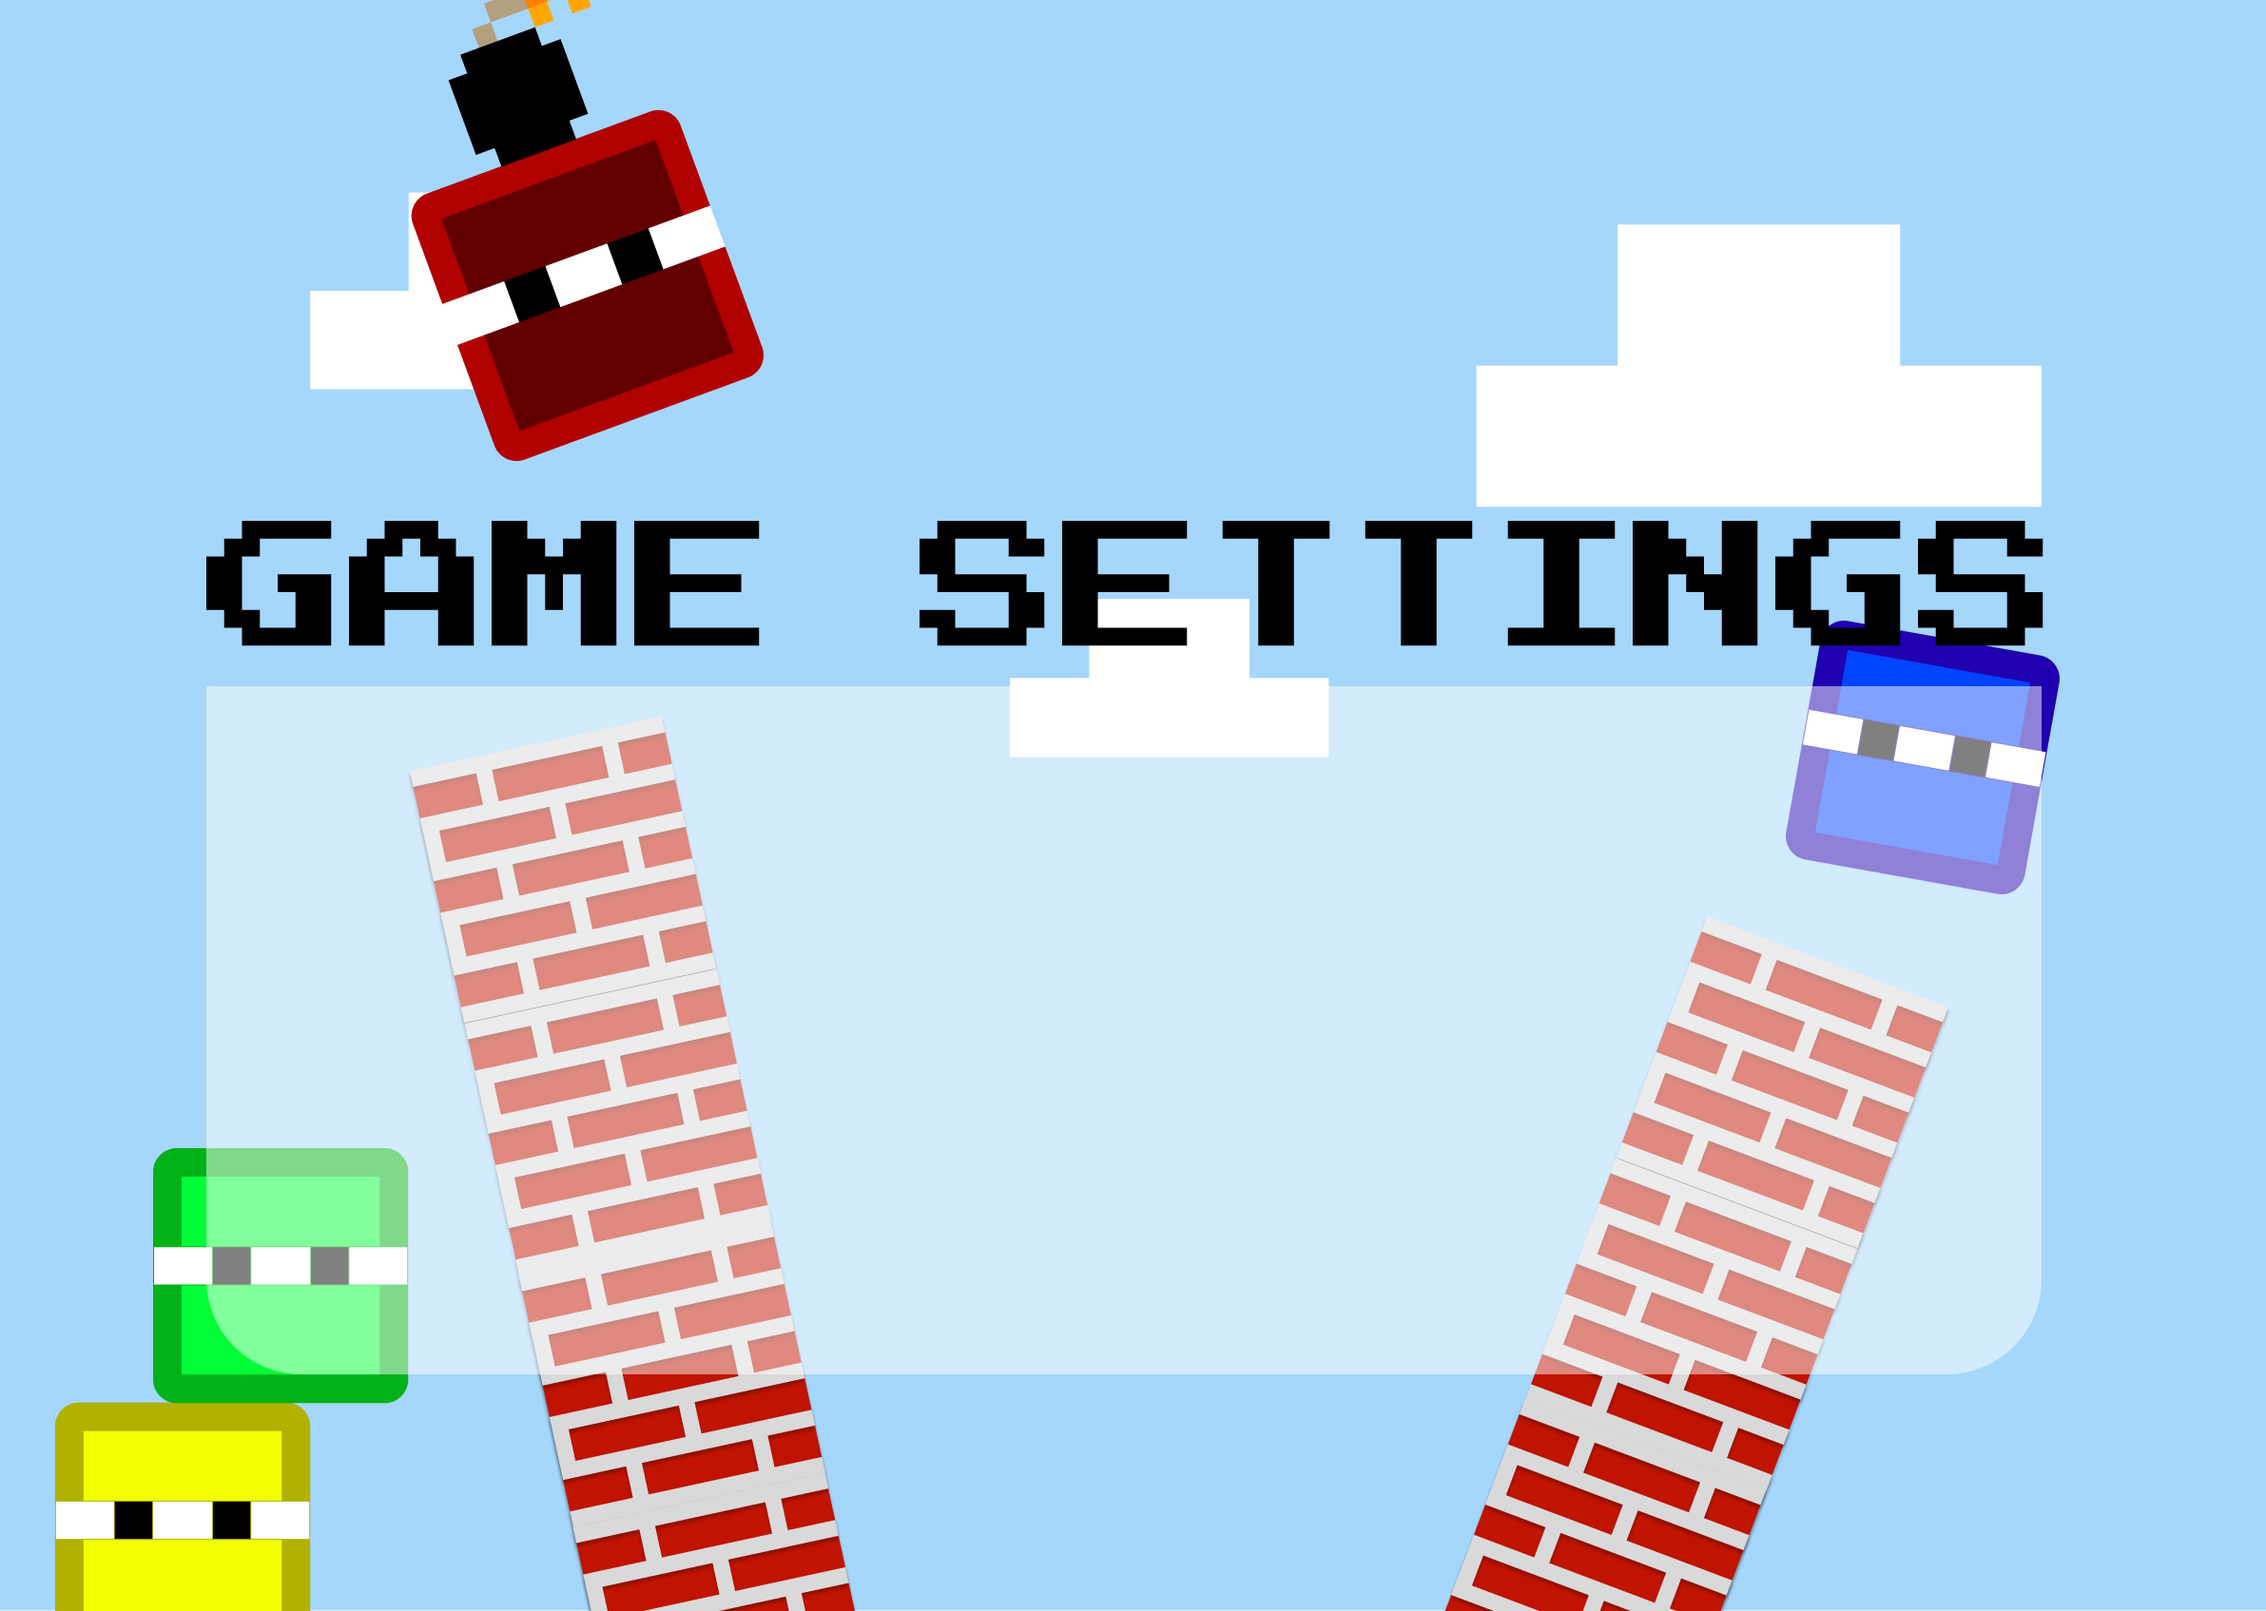
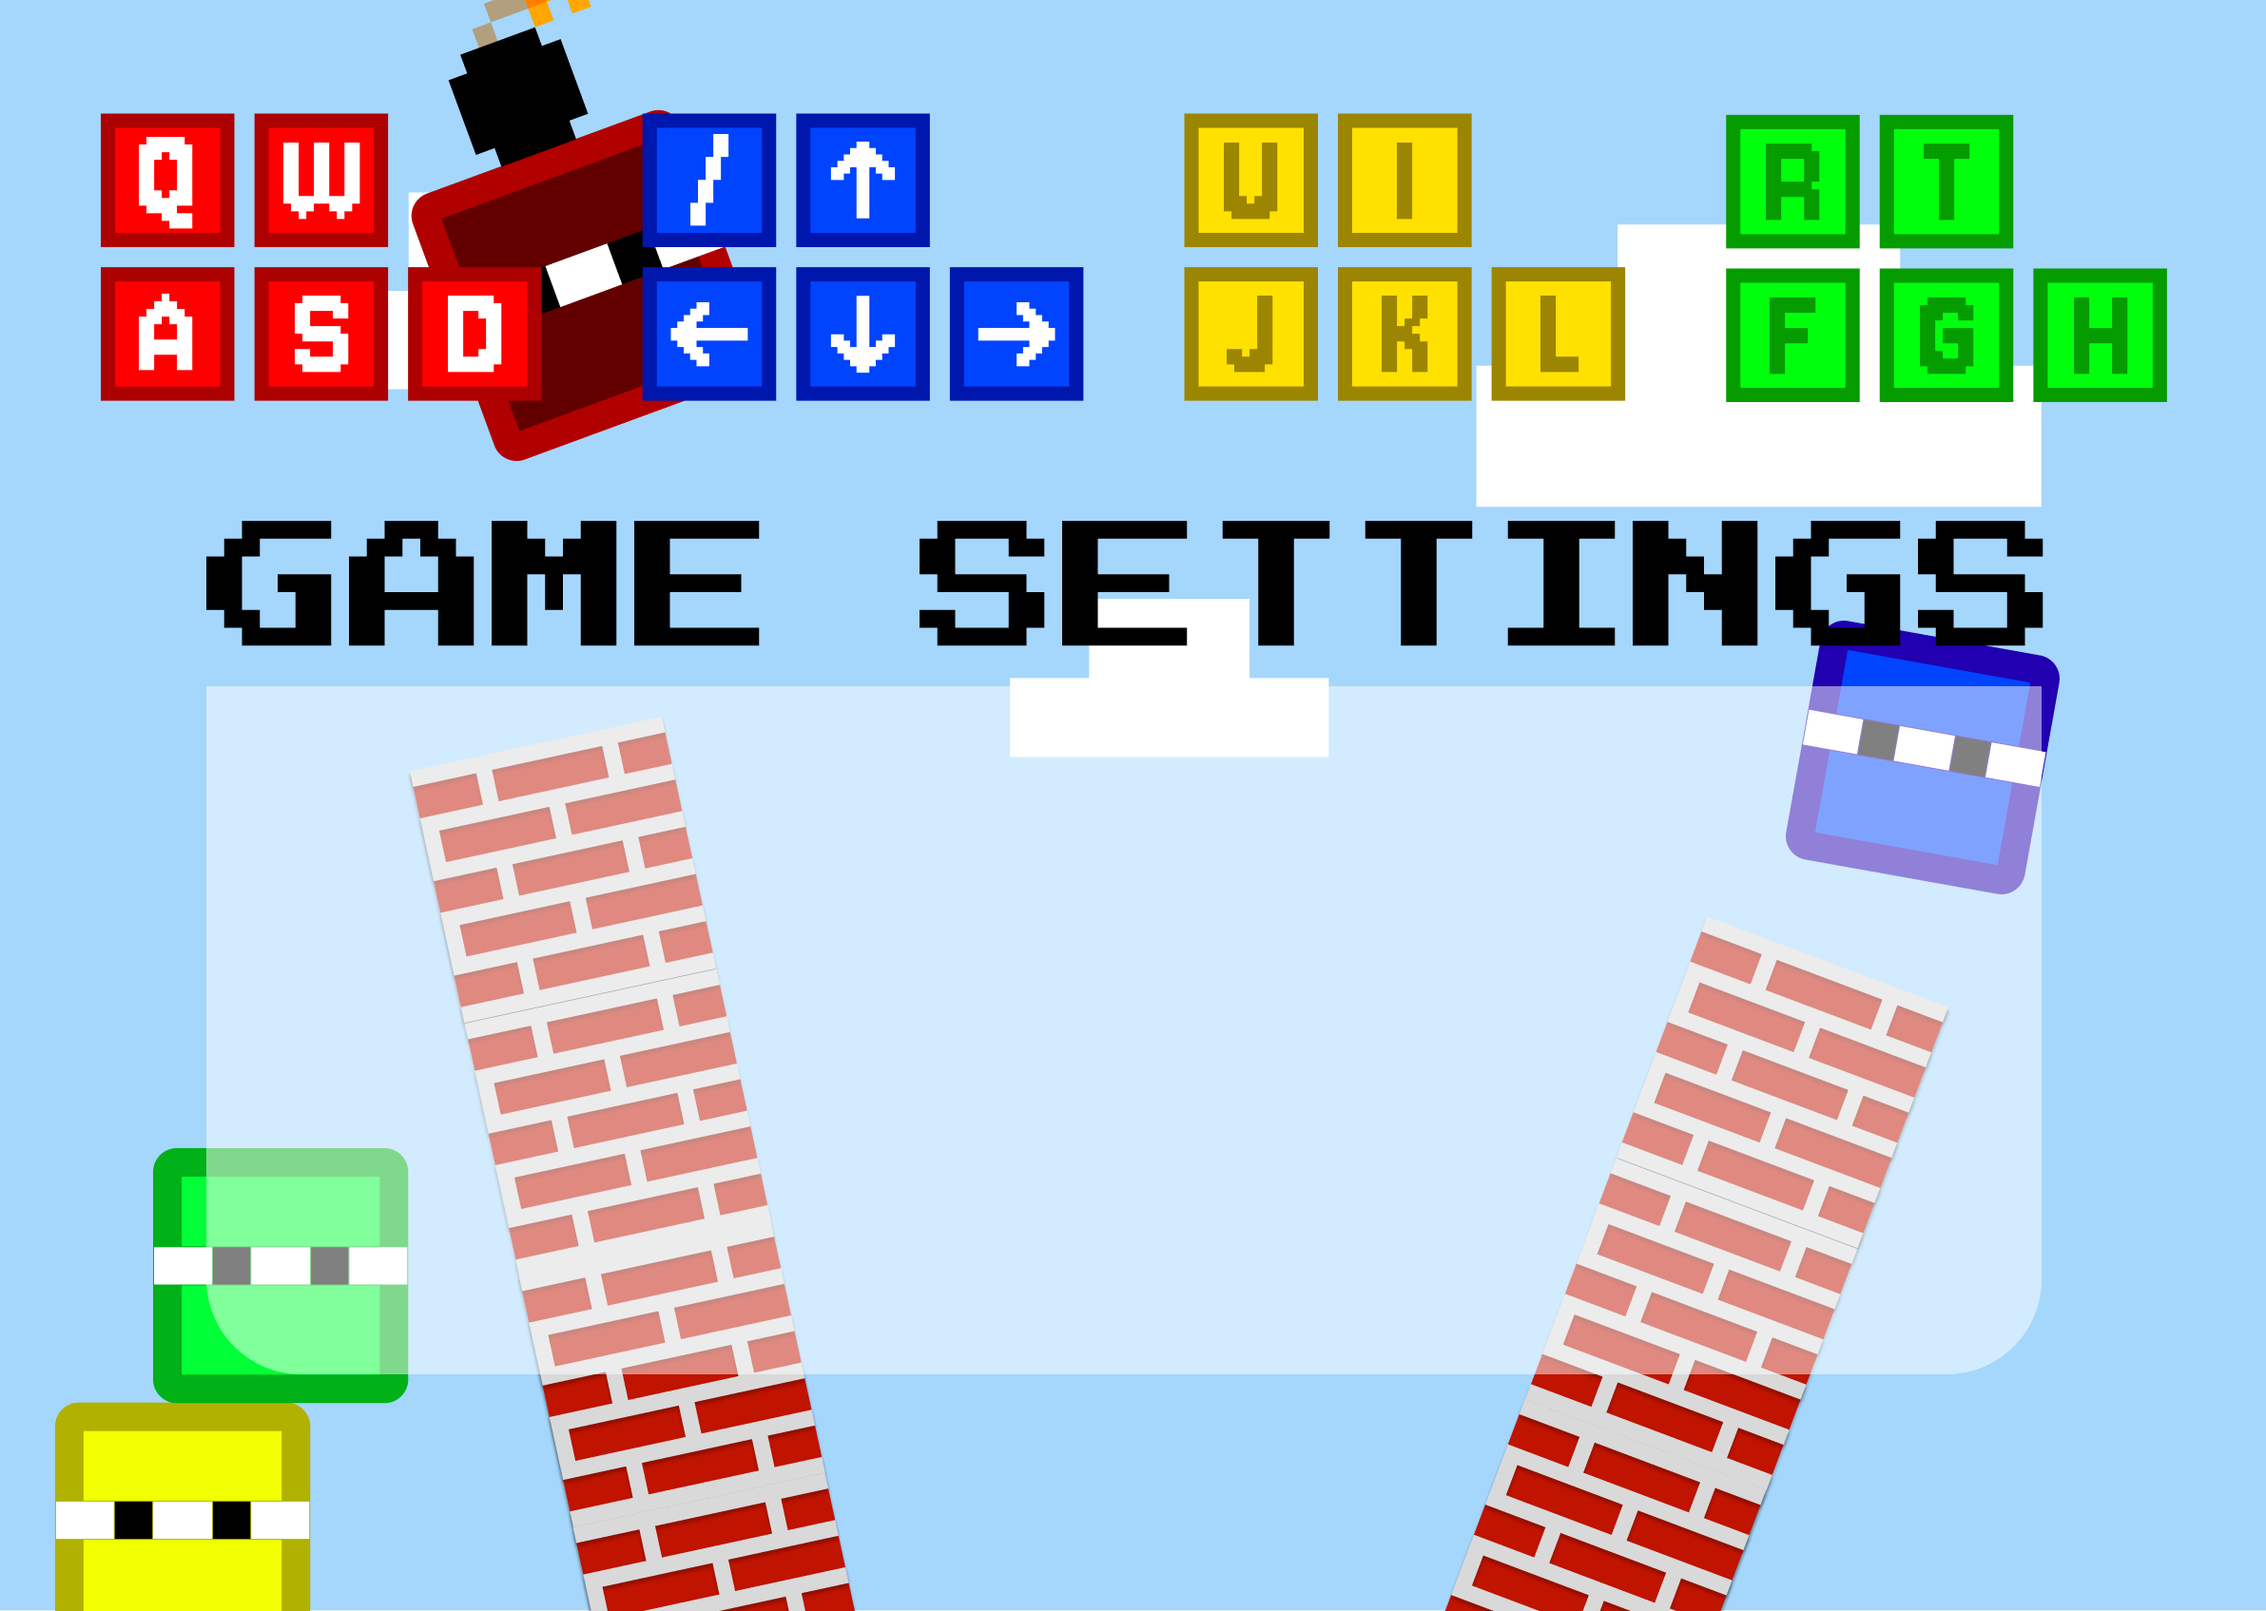
fix player 3 key, display keys

Changed region(s): [[0.2795, 0.0614, 0.9627, 0.2761], [0.0311, 0.0614, 0.2484, 0.2761]]

diff --git a/script.js b/script.js
@@ -29,7 +29,7 @@ const keys = {},
   ctrls = [
     { u: "w", d: "s", l: "a", r: "d", t: "q" },
     { u: "ArrowUp", d: "ArrowDown", l: "ArrowLeft", r: "ArrowRight", t: "/" },
-    { u: "i", d: "k", l: "j", r: "l", t: "y" }, // Player 3 throw: Y
+    { u: "i", d: "k", l: "j", r: "l", t: "u" }, // Player 3 throw: U
     { u: "t", d: "g", l: "f", r: "h", t: "r" }, // Player 4 throw: R
   ],
   assets = { wall: new Image(), ground: new Image(), bomb: new Image() };
